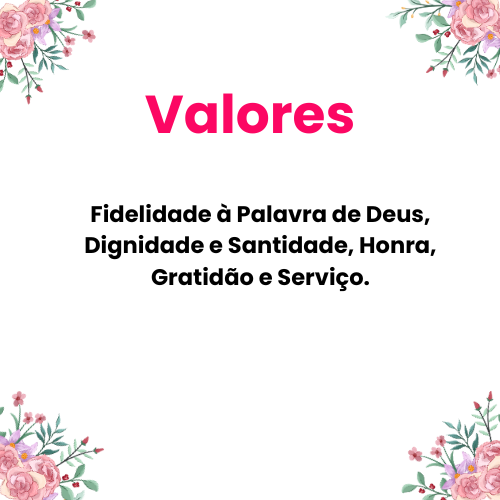
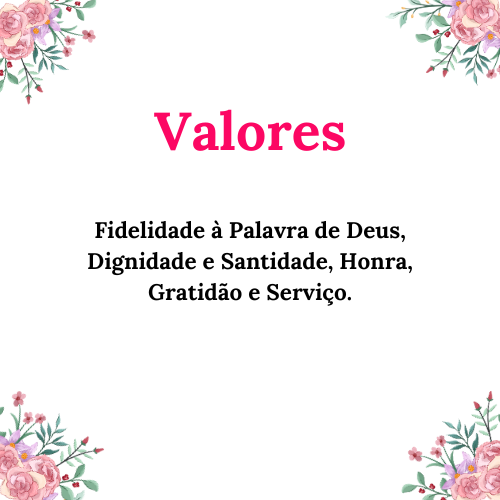
atualização

Changed region(s): [[0.15, 0.39, 0.87, 0.6], [0.27, 0.18, 0.72, 0.3]]

diff --git a/index.html b/index.html
@@ -7,6 +7,8 @@
   <link rel="stylesheet" href="style.css">
   <link rel="preconnect" href="https://fonts.googleapis.com">
 <link rel="preconnect" href="https://fonts.gstatic.com" crossorigin>
+<link href="https://fonts.googleapis.com/css2?family=Lora:ital,wght@0,400..700;1,400..700&display=swap" rel="stylesheet">
+<link rel="preconnect" href="https://fonts.gstatic.com" crossorigin>
 <link href="https://fonts.googleapis.com/css2?family=Amatic+SC:wght@700&family=Poppins:ital,wght@0,100;0,200;0,300;0,400;0,500;0,600;0,700;0,800;0,900;1,100;1,200;1,300;1,400;1,500;1,600;1,700;1,800;1,900&family=Roboto:wght@400;900&display=swap" rel="stylesheet">
 <link rel="icon" type="image/png" href="Imagens/logotransparente.png">
 </head>

diff --git a/style.css b/style.css
@@ -1,15 +1,15 @@
 body {
     margin: 0;
-    font-family: Arial, sans-serif;
+    font-family: lora;
   }
 
   .h1{
     color: #FC0763;
-    font-family: poppins;
+    font-family: lora;
   }
 
   .h2{
-    font-family: poppins;
+    font-family: lora;
   }
   
   .navbar {
@@ -22,7 +22,7 @@ body {
   
   .btn {
     color: rgb(0, 0, 0);
-    font-family: poppins;
+    font-family: lora;
     text-decoration: none;
     font-size: 20px;
     padding: 10px 20px;
